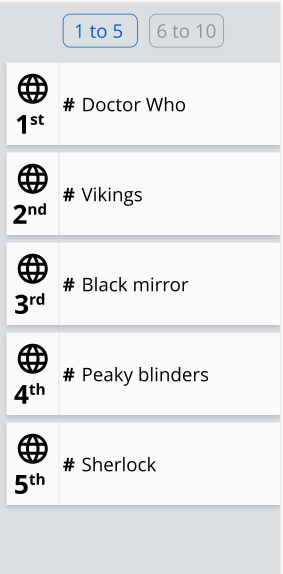
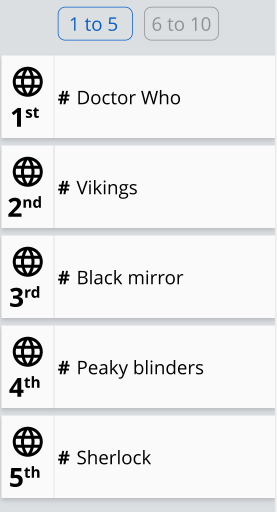
add topSeries and otherSeries view

Changed region(s): [[0.0, 0.0938, 1.0, 1.0], [0.0, 0.0, 0.9819, 0.0938], [0.2022, 0.1562, 0.6643, 0.2188]]

diff --git a/top_series/src/views/topSeries.vue b/top_series/src/views/topSeries.vue
@@ -1,11 +1,87 @@
 <template>
   <v-container class="topSeries ma-5">
-    <h1 class="grey--text">Other Series</h1>
+    <h1 class="grey--text">Top Series</h1>
+        <v-row>
+            <v-col align="center">
+                <v-btn outlined height="45" width="100" 
+                    active-class="/ranking_1-to-5" class="ma-3 rankingButton" 
+                    router v-bind:to="'/ranking_1-to-5'">
+                    1 to 5
+                </v-btn>
+                <v-btn outlined height="45" width="100" 
+                    active-class="/ranking_6-to-10" class="ma-3 rankingButton" 
+                    router v-bind:to="'/ranking_6-to-10'">
+                    6 to 10
+                </v-btn>
+            </v-col>
+        </v-row>
+        <v-row no-gutters>
+          <v-col cols="12" sm="12">
+              <v-card class="mb-2" v-for="serie in series" :key="serie.rank">
+                  <v-layout row align-center>
+                      <v-col cols="2" class="ml-3" align="center" >
+                          <v-img height="40" width="40" src="@/assets/language-24px.svg"></v-img>
+                          <p class="rank pa-0 ma-0">{{serie.rank}}<sup>{{serie.letter}}</sup></p>
+                      </v-col>
+                      <v-divider class="mt-0" inset vertical></v-divider>
+                      <v-col cols="6" class="pa-0" >
+                        <v-card-title class="pa-0  ml-1 seriesName">
+                            <b class="pr-2">#</b> {{serie.title}}
+                        </v-card-title>
+                      </v-col>
+                  </v-layout>
+              </v-card>
+          </v-col>
+      </v-row>
   </v-container>
 </template>
 
 <script>
 export default {
-  name: 'topSeries',
+data () {
+    return {
+      series: [
+        { title: 'Doctor Who', rank: 1, letter: 'st' },
+        { title: 'Vikings', rank: 2, letter: 'nd' },
+        { title: 'Black mirror', rank: 3, letter: 'rd' },
+        { title: 'Peaky blinders', rank: 4, letter: 'th' },
+        { title: 'Sherlock', rank: 5, letter: 'th' }
+      ]
+    }
+}       
 }
 </script>
+
+<style scoped>
+.rankingButton{
+   font-family: 'Open Sans', sans-serif;
+   font-size: 25px!important;
+   border-radius: 10px;
+   border: 1px solid black;
+   letter-spacing: 0;
+   opacity: 35%;
+}
+
+.rank{
+    font-weight: bold;
+    font-family: 'Open Sans', sans-serif;
+    font-size: 25px!important;
+}
+
+.seriesName{
+    font-family: 'Open Sans', sans-serif;
+    font-size: 25px!important;
+    letter-spacing: 0;
+    color: black;
+}
+
+.v-btn--active{
+    color: #1565C0!important;
+    border: 1px solid #1565C0;
+    opacity: 100%;
+    background-color: #E0E0E0!important; 
+}
+.v-btn--active::before{
+    opacity: 0!important;
+}
+</style>

diff --git a/top_series/src/views/otherSeries.vue b/top_series/src/views/otherSeries.vue
@@ -1,11 +1,87 @@
 <template>
   <v-container class="otherSerie ma-5">
     <h1 class="grey--text">Other Series</h1>
+      <v-row>
+        <v-col align="center">
+          <v-btn outlined height="45" width="100" 
+              active-class="/ranking_1-to-5" class="ma-3 rankingButton" 
+              router v-bind:to="'/ranking_1-to-5'">
+              1 to 5
+          </v-btn>
+          <v-btn outlined height="45" width="100" 
+              active-class="/ranking_6-to-10" class="ma-3 rankingButton" 
+              router v-bind:to="'/ranking_6-to-10'">
+              6 to 10
+          </v-btn>
+        </v-col>
+      </v-row>
+        <v-row no-gutters>
+          <v-col cols="12" sm="12">
+              <v-card class="mb-2" v-for="serie in series" :key="serie.rank">
+                  <v-layout row align-center>
+                      <v-col cols="2" class="ml-3" align="center" >
+                          <v-img height="40" width="40" src="@/assets/language-24px.svg"></v-img>
+                          <p class="rank pa-0 ma-0">{{serie.rank}}<sup>{{serie.letter}}</sup></p>
+                      </v-col>
+                      <v-divider class="mt-0" inset vertical></v-divider>
+                      <v-col cols="6" class="pa-0" >
+                        <v-card-title class="pa-0  ml-1 seriesName">
+                            <b class="pr-2">#</b> {{serie.title}}
+                        </v-card-title>
+                      </v-col>
+                  </v-layout>
+              </v-card>
+          </v-col>
+      </v-row>
   </v-container>
 </template>
 
 <script>
 export default {
   name: 'otherSeries',
+  data () {
+    return {
+      series: [
+        { title: 'Game of thrones', rank: 6, letter: 'th' },
+        { title: 'Westworld', rank: 7, letter: 'th' },
+        { title: 'The witcher', rank: 8, letter: 'th' },
+        { title: 'Mandalorian', rank: 9, letter: 'th' },
+        { title: 'House of cards', rank: 10, letter: '' }
+      ]
+    }
+  }
 }
 </script>
+<style scoped>
+.rankingButton{
+   font-family: 'Open Sans', sans-serif;
+   font-size: 25px!important;
+   border-radius: 10px;
+   border: 1px solid black;
+   letter-spacing: 0;
+   opacity: 35%;
+}
+
+.rank{
+    font-weight: bold;
+    font-family: 'Open Sans', sans-serif;
+    font-size: 25px!important;
+}
+
+.seriesName{
+    font-family: 'Open Sans', sans-serif;
+    font-size: 25px!important;
+    letter-spacing: 0;
+    color: black;
+}
+
+.v-btn--active{
+    color: #1565C0!important;
+    border: 1px solid #1565C0;
+    opacity: 100%;
+    background-color: #E0E0E0!important; 
+}
+.v-btn--active::before{
+    opacity: 0!important;
+}
+</style>

diff --git a/top_series/src/views/listSeries.vue b/top_series/src/views/listSeries.vue
@@ -1,6 +1,5 @@
 <template>
-  <div class="ListSeries ma-5">
-    <buttons></buttons> 
+  <v-container class="ListSeries ma-5">
     <h1 class="grey--text">List Of Series</h1>
     <v-container>
       <v-layout row class="mb-3 ml-1">
@@ -42,13 +41,11 @@
         </v-layout>
       </v-card>
     </v-container>
-  </div>
+  </v-container>
 </template>
 
 <script>
-import buttons from '@/components/buttons'
 export default {
-  component: buttons,
   data () {
     return {
       series: [

diff --git a/top_series/src/router/index.js b/top_series/src/router/index.js
@@ -21,7 +21,7 @@ const routes = [
   {
     path: '/ranking_1-to-5',
     name: 'topSeries',
-    components: topSeries
+    component: topSeries
   },
   {
     path: '/ranking_6-to-10',
